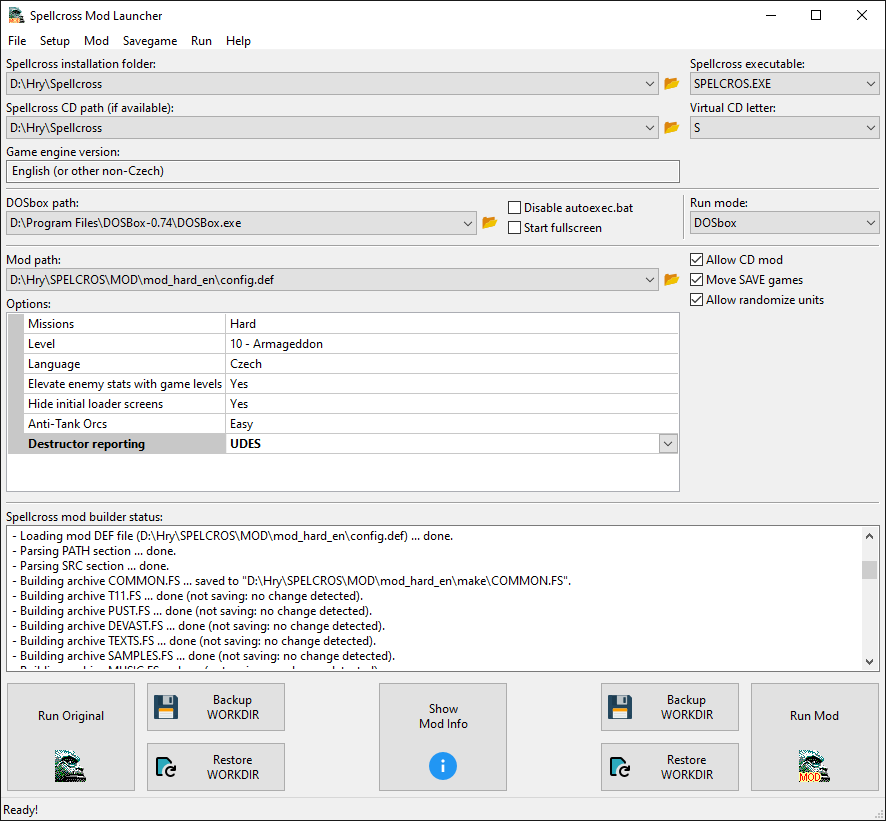
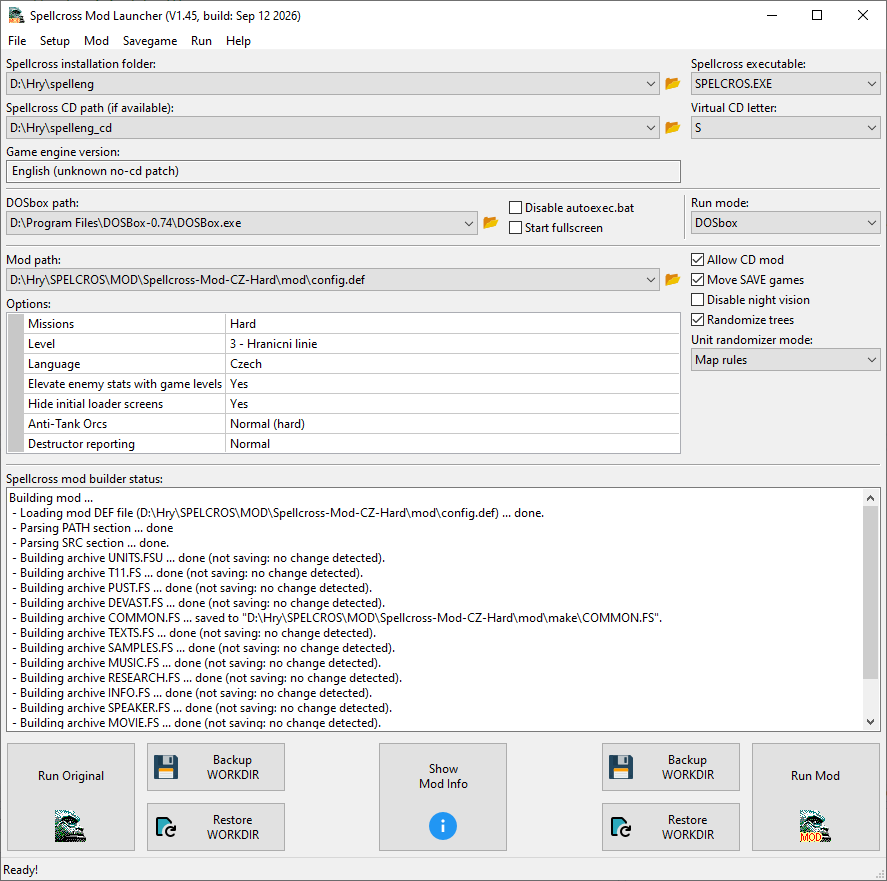
tuning readme

diff --git a/README.md b/README.md
@@ -61,9 +61,24 @@ Got stuck in somewhere due to some game bugs? You run out of money? Or you just 
 Well, apart from few [attempts](https://spellcross.kvalitne.cz/mod/spell_mod_builder.html) made for Czech version of the game there is one larger mod in development [here](https://github.com/smaslan/Spellcross-Mod-CZ-Hard). Apart from that, there is a mod template in the tool folder. That one should be sufficient to use the randomizers without changing anything else  
 
 
-## Builds
+## Credits
 
-Here are available release builds for Windows. It was tested in Windows 10, but should work in Win11 as well. There is no installation, just download ZIP file, unpack it where you like it and run. There may a bit issue with Win11 security setup. So far I do not have certificate so I cannot build a signed trusted installer. This may result in problems with Windows "Smart App Control" or "App Install Control" depending on your system setup. But I'm working on it! You can star my project if you like to help me out here get the certificate.   
+The project uses few very useful external open source libraries:
+- Spellcross Map Editor: shared Spellcross handling libraries ([https://github.com/smaslan/spellcross-map-edit](https://github.com/smaslan/spellcross-map-edit))
+- wxWidgets: multiplatform graphical used interface ([https://github.com/wxWidgets/wxWidgets/](https://github.com/wxWidgets/wxWidgets/))
+- simpleini: cross-platform library handling INI-style conf. files ([https://github.com/brofield/simpleini](https://github.com/brofield/simpleini))
+- cparse: expression parser ([https://github.com/cparse/cparse](https://github.com/cparse/cparse))
+
+
+## Building the project
+
+If you like to make your own builds you certainly can. The project was made in pure C++20 in Microsoft Visual Studio 2019, so there should be no problem building it. The whole thing was made 100% using standard C++ libraries and a few multiplatform open source libraries listed above. The only hurdle is to properly link it with wxWidgets libraries. You have to download those and build them first, then set some system path variables and also change paths in the MSVC project file. That is always a bit of a mess when I start on a new PC. 
+
+
+## Releases
+
+Here are available release builds for 64-bit Windows. It was tested in Windows 10, but should work in Windows 11 as well. There is no installation, just download ZIP file, unpack it where you like it and run it. There may a bit issue with Windows 11 security setup though. So far I do not have certificate so I cannot build a signed trusted installer. This may result in problems with Windows "Smart App Control" or "App Install Control" or whatever it is called depending on your system setup. But I'm working on it!
+Also, you can star my project here on GitHub if you like to help me out on a way to get the certificate.   
 
 - [V1.0, 5th May 2026 (zip file)](./builds/Spellcross-Mod-Launcher-V1.0.zip)
   - First release (careful, not fully tested, make backups!).  
@@ -83,7 +98,7 @@ Here are available release builds for Windows. It was tested in Windows 10, but 
 
 ## Usage
 
-The tool has [help](./help/help_eng.html) in the application folder. It should be able to launch the HTML help via menu (it may fail due to Windows security policies). If not, open it manually using your browser.
+The tool has [help](https://github.io?https://github.com/smaslan/Spellcross-Mod-Launcher/help/help_eng.html) in the application folder. It should be able to launch the HTML help via menu (it may fail due to Windows security policies). If not, open it manually using your browser.
  
                                  
 ## License
